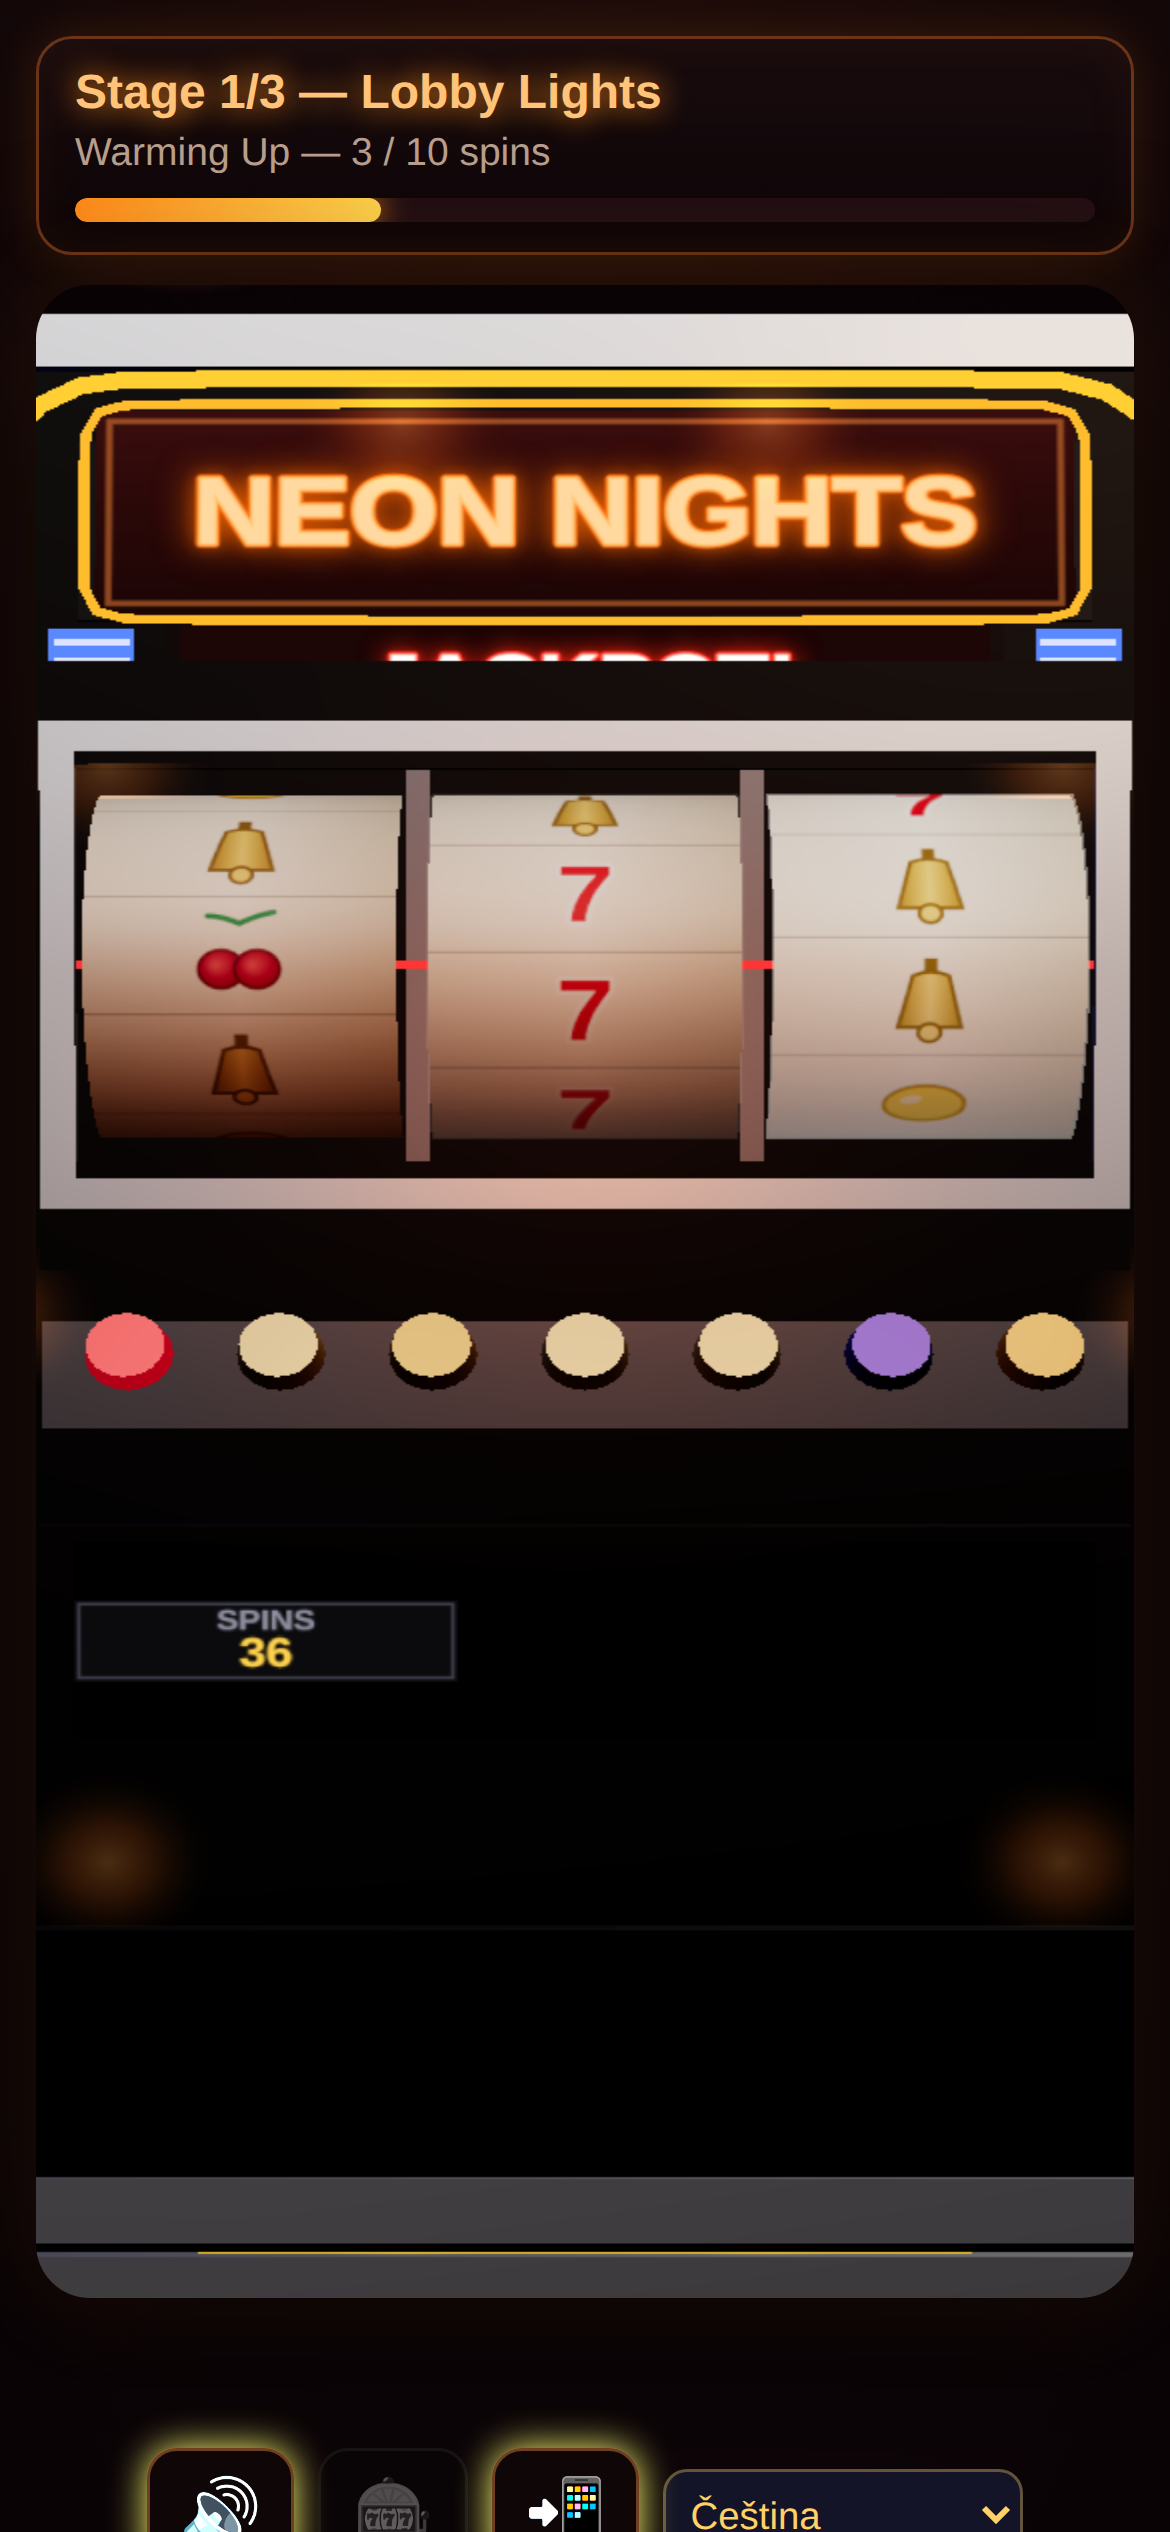
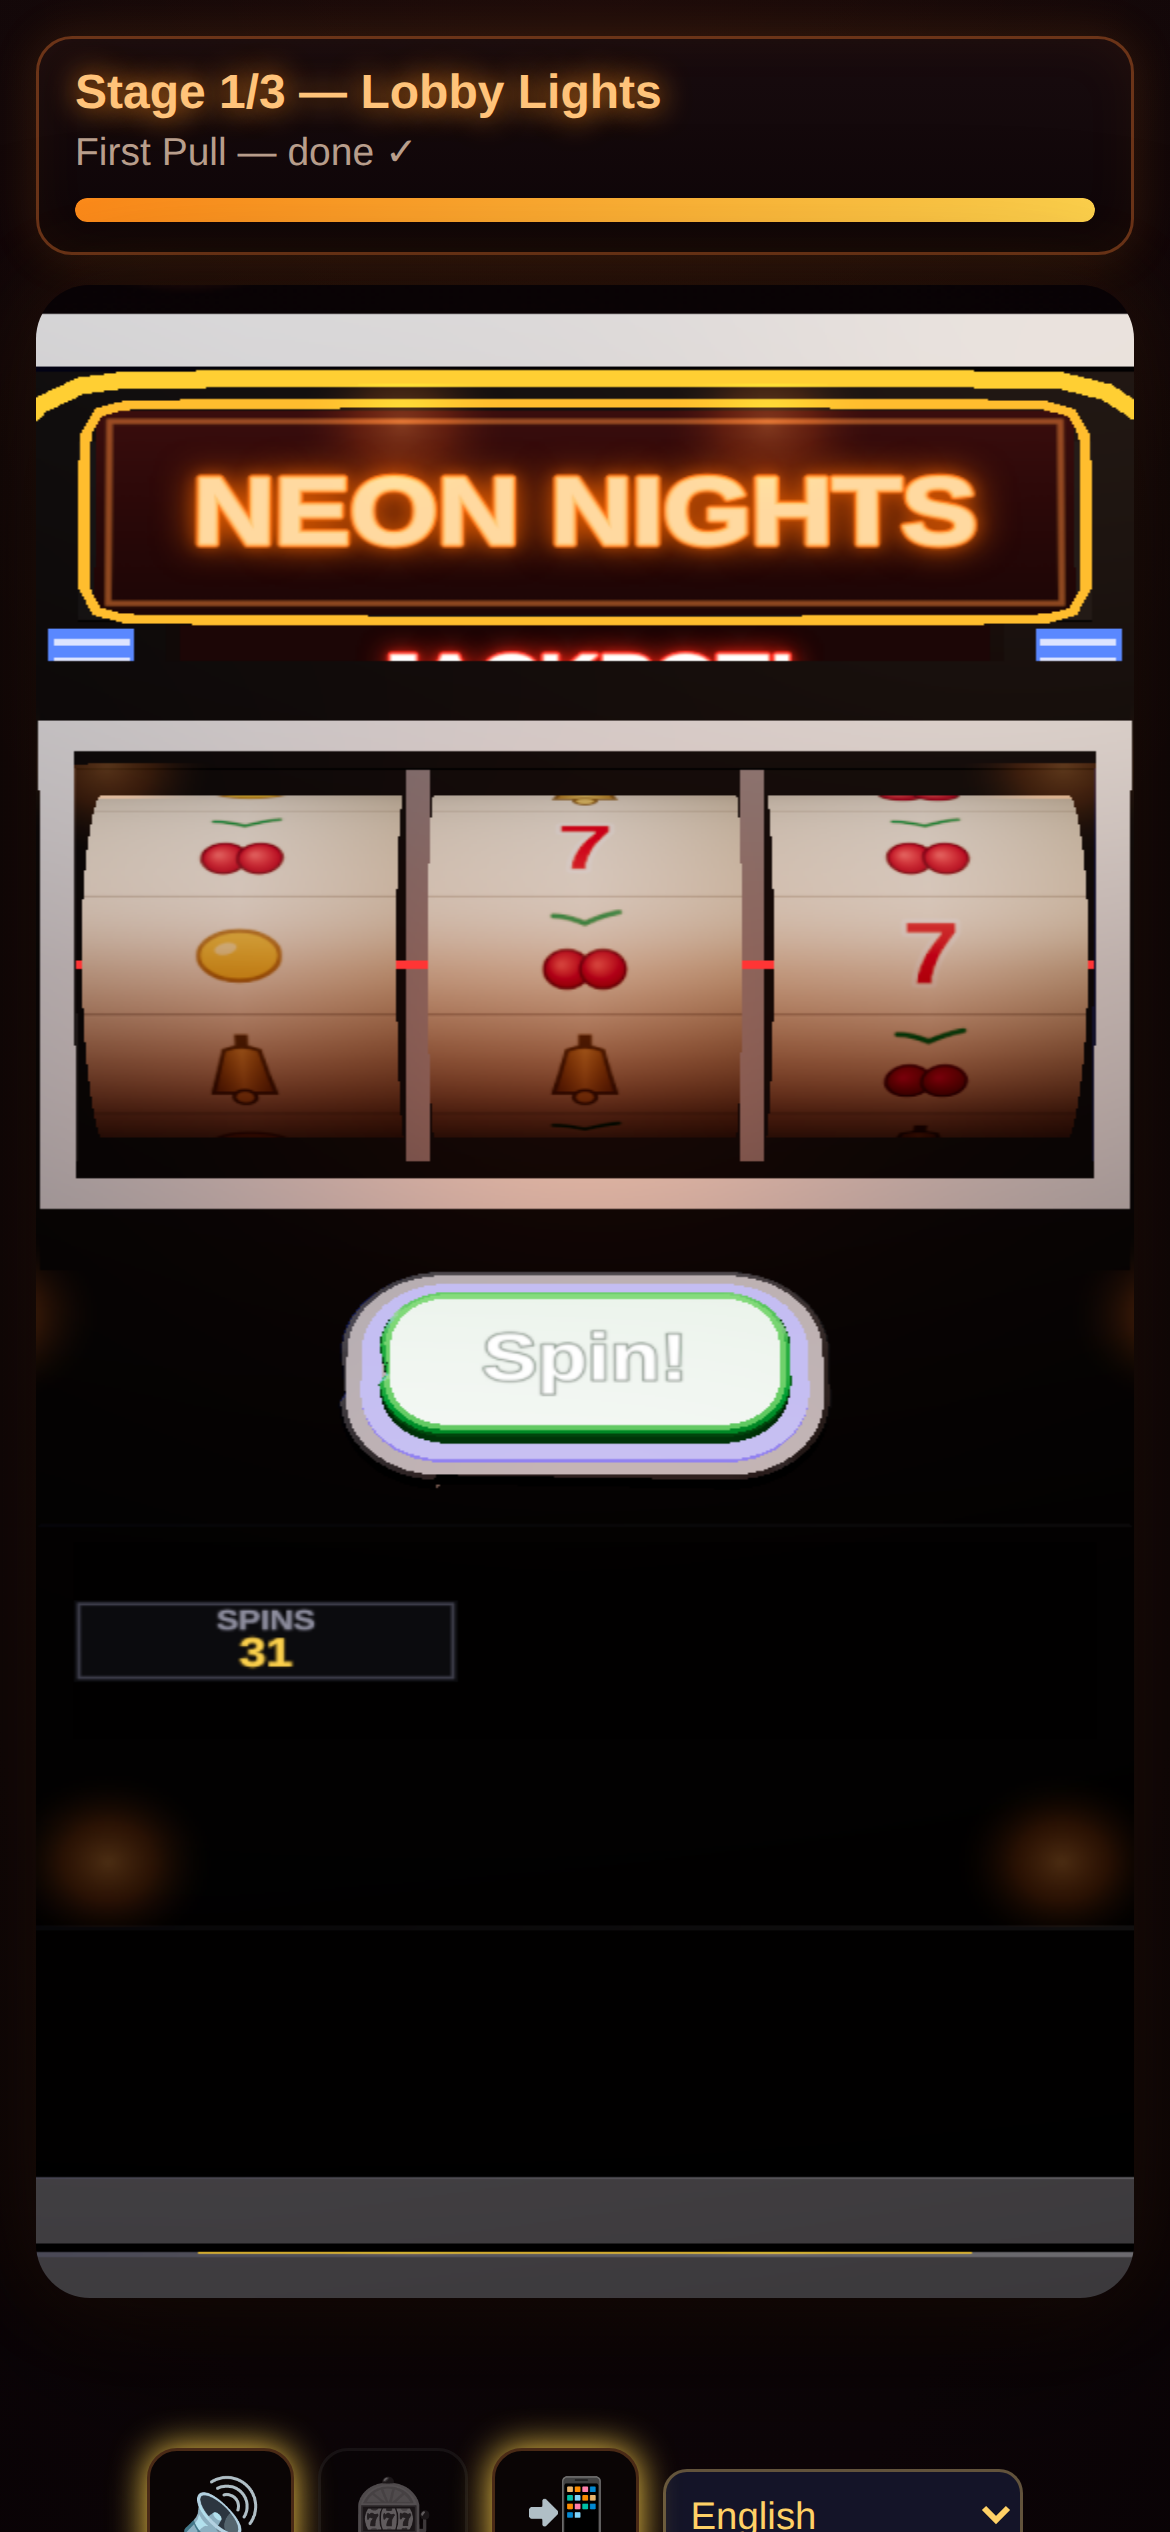
nn777-v5: deepen green button material (fix env washout — face rendered pale)

diff --git a/cabinet3d.js b/cabinet3d.js
@@ -480,9 +480,12 @@ function makeWebGLCabinet() {
       new THREE.ExtrudeGeometry(roundedRectShape(BTN.w, BTN.h, BTN.corner),
         { depth: BTN.depth, bevelEnabled: true, bevelThickness: 0.045, bevelSize: 0.045, bevelSegments: 3, curveSegments: 16 }),
       new THREE.MeshPhysicalMaterial({
-        color: 0x2bc24e, roughness: 0.22, metalness: 0.05,
-        clearcoat: 1.0, clearcoatRoughness: 0.08, envMapIntensity: 0.8,
-        emissive: 0x0b6b28, emissiveIntensity: 0.4,
+        // vivid glossy green: keep envMapIntensity low so the RoomEnvironment
+        // clearcoat reflection can't wash the face white (caught in QA
+        // 2026-09-20 — the face rendered pale instead of green).
+        color: 0x23b14d, roughness: 0.28, metalness: 0.05,
+        clearcoat: 0.6, clearcoatRoughness: 0.12, envMapIntensity: 0.35,
+        emissive: 0x0b6b28, emissiveIntensity: 0.55,
       }));
     btn.position.z = 0.02;
     press.add(btn);
